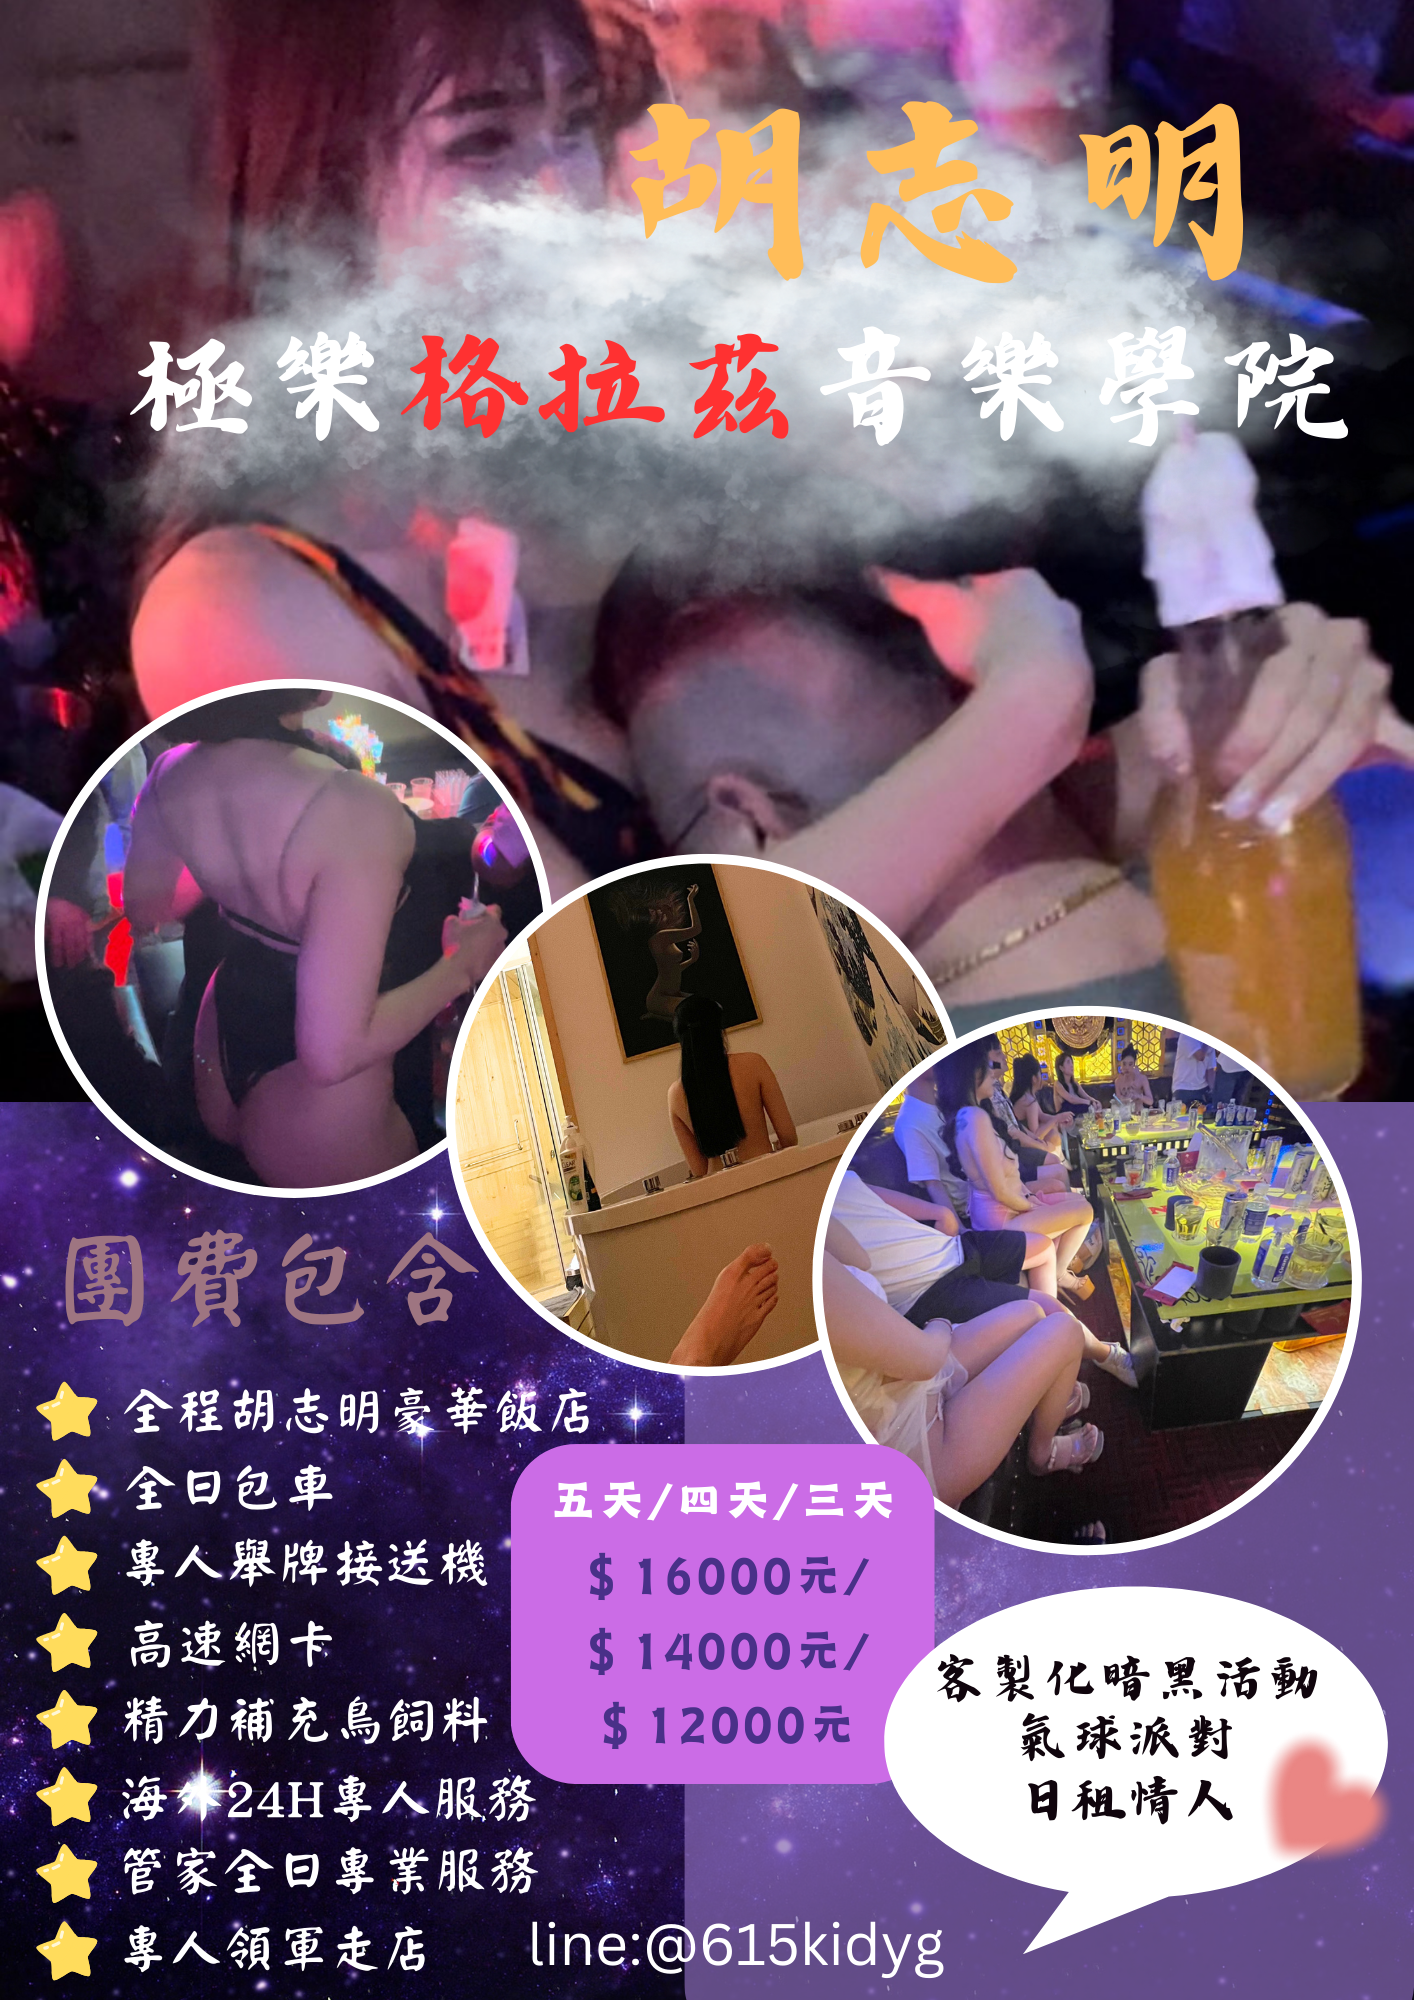
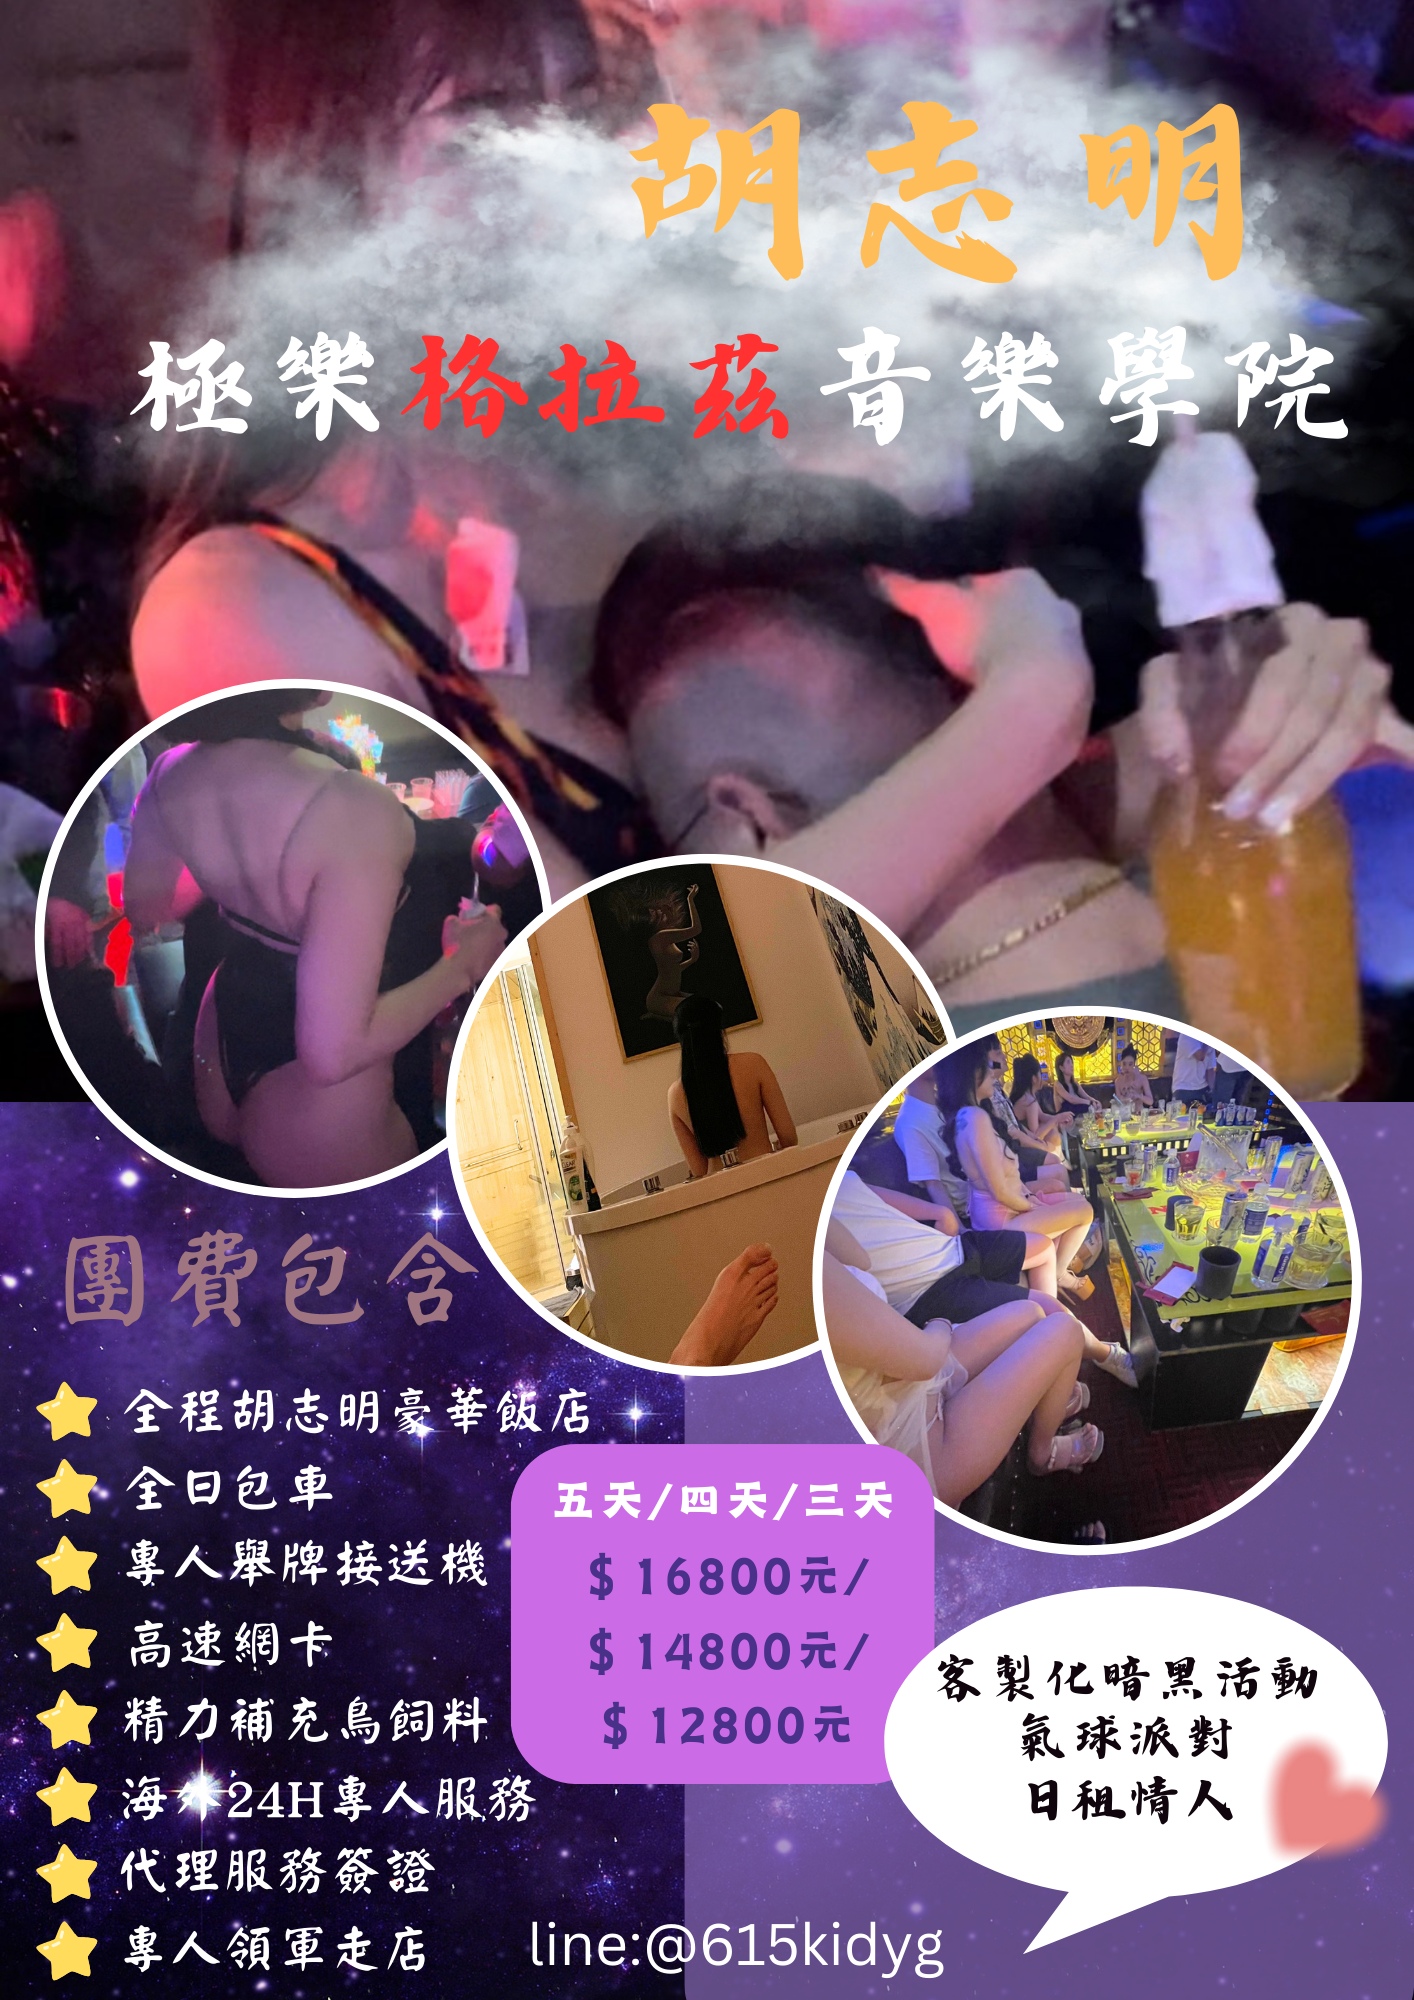
換圖片

Changed region(s): [[0.0622, 0.0, 1.0, 0.31], [0.0934, 0.93, 0.3734, 0.961], [0.7779, 0.31, 0.8091, 0.341]]

diff --git a/index.html b/index.html
@@ -899,51 +899,15 @@
                 <tbody>
                   <tr>
                     <td>五天四夜</td>
-                    <td>16,900</td>
+                    <td>16,800</td>
                   </tr>
                   <tr>
                     <td>四天三夜</td>
-                    <td>14,600</td>
+                    <td>14,800</td>
                   </tr>
                   <tr>
                     <td>三天兩夜</td>
-                    <td>12,300</td>
-                  </tr>
-                </tbody>
-                <tbody>
-                  <tr>
-                    <td>五天四夜</td>
-                    <td>16,900</td>
-                  </tr>
-                  <tr>
-                    <td>四天三夜</td>
-                    <td>14,600</td>
-                  </tr>
-                  <tr>
-                    <td>三天兩夜</td>
-                    <td>12,300</td>
-                  </tr>
-                </tbody>
-              </table>
-              <table>
-                <thead>
-                  <tr>
-                    <th>日程</th>
-                    <th>價格</th>
-                  </tr>
-                </thead>
-                <tbody>
-                  <tr>
-                    <td>五天四夜</td>
-                    <td>16,900</td>
-                  </tr>
-                  <tr>
-                    <td>四天三夜</td>
-                    <td>14,600</td>
-                  </tr>
-                  <tr>
-                    <td>三天兩夜</td>
-                    <td>12,300</td>
+                    <td>12,800</td>
                   </tr>
                 </tbody>
               </table>
@@ -1108,7 +1072,7 @@
       </div>
       <!-- Footer -->
       <footer id="footer" style="">
-        <p class="copyright">© 2024 Garz音樂學院 git差差All Rights Reserved.</p>
+        <p class="copyright">© 2024 Garz音樂學院 All Rights Reserved.</p>
       </footer>
     </div>
     <!-- BG -->
